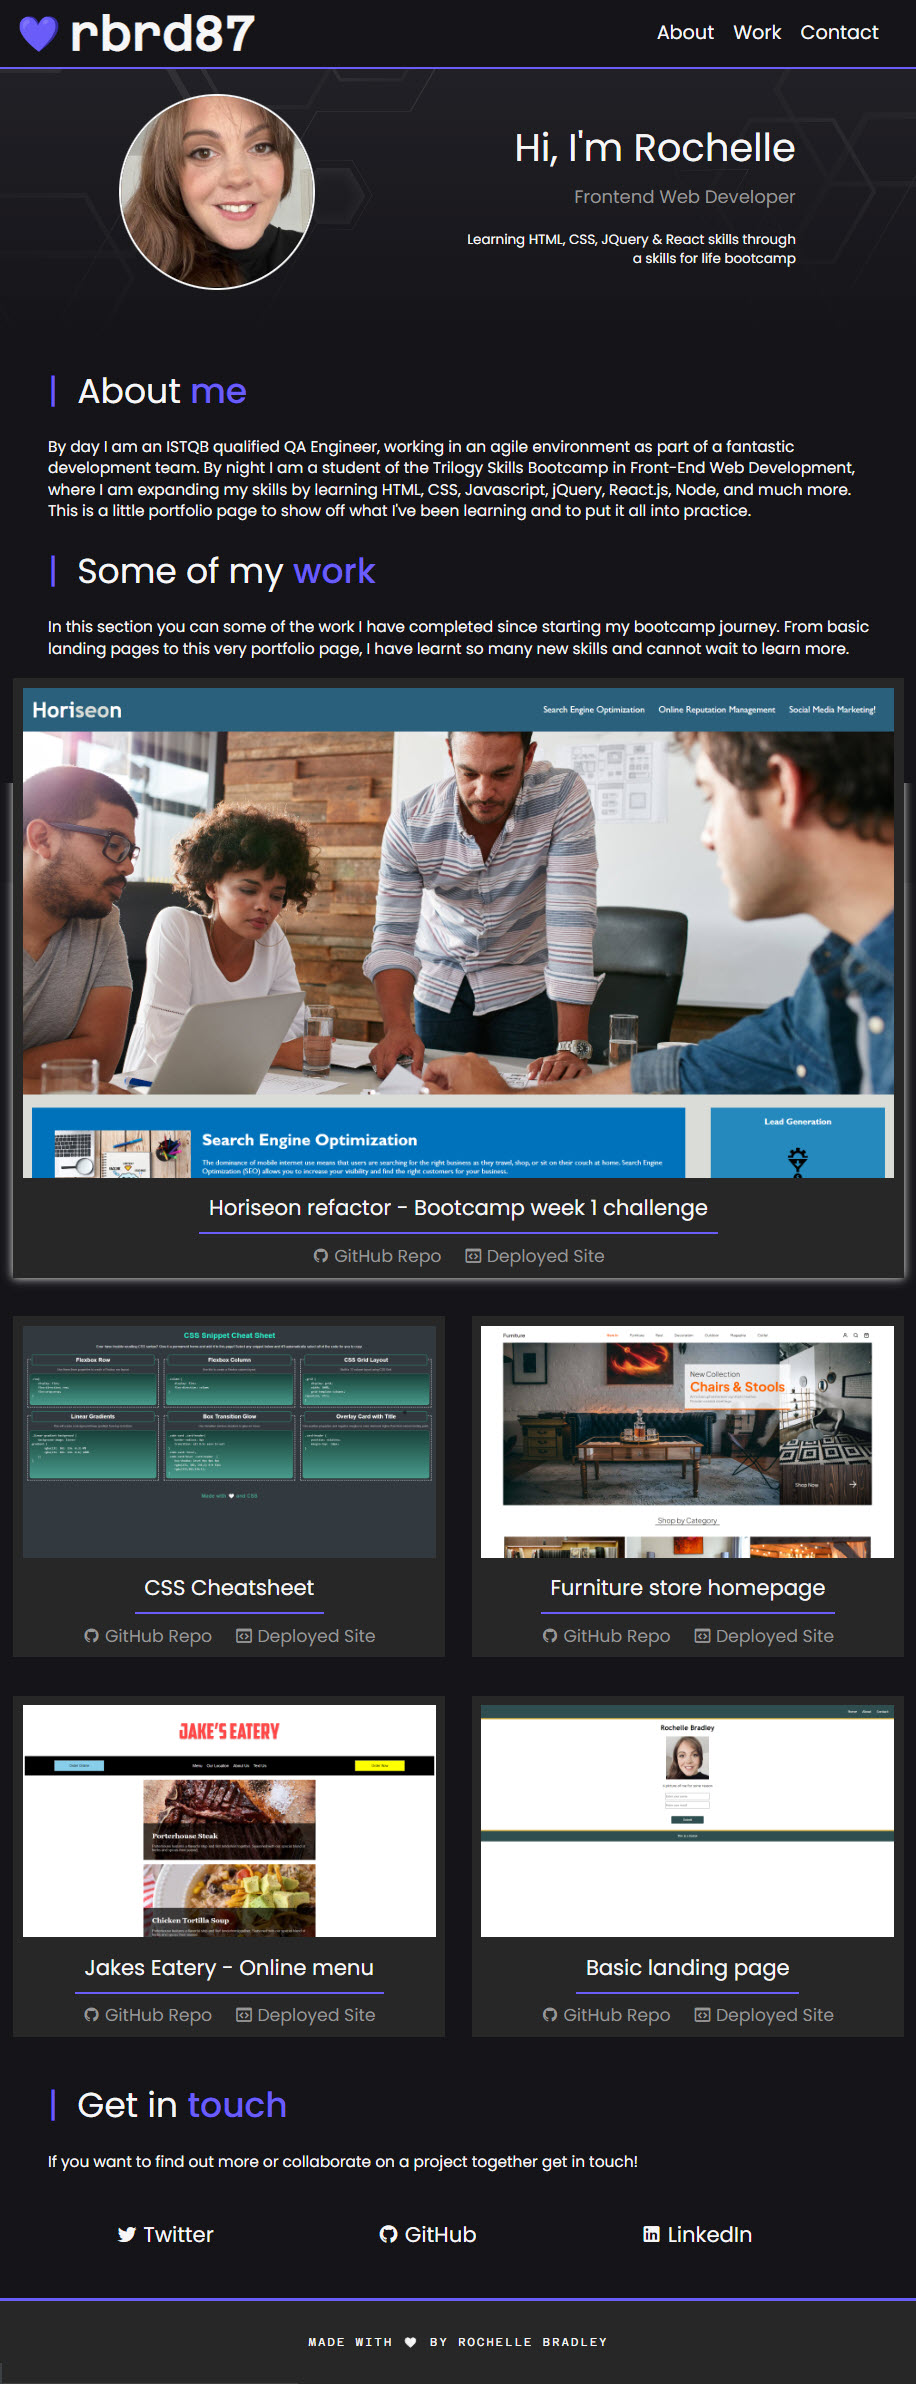
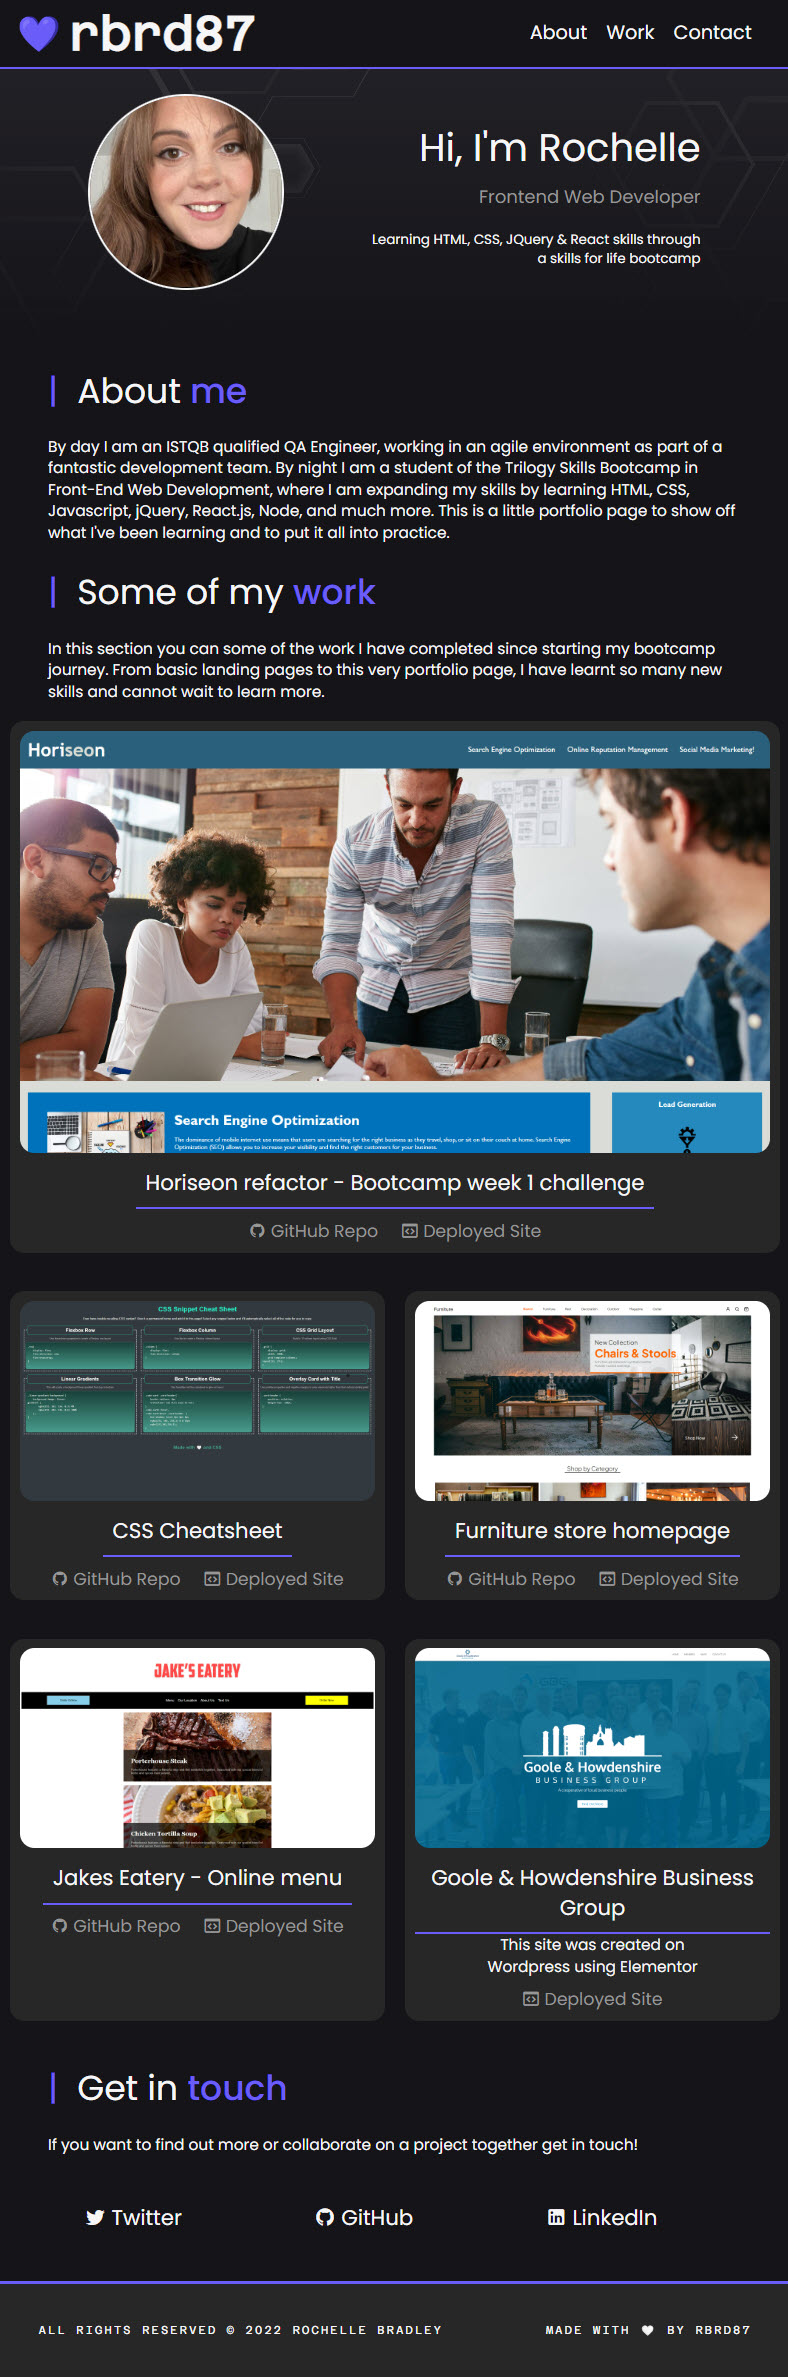
Updated all images to have titles, updated one project to a previous one I'd done and updated the screenshots

diff --git a/index.html b/index.html
@@ -40,7 +40,7 @@
   <section class="hero-banner row">
     <div class="hero-img">
       <!-- ensuring all images have alt txt for accessibility -->
-      <img src="assets/images/profile-pic.jpeg" alt="picture of rochelle bradley" class="profile-pic">
+      <img src="assets/images/profile-pic.jpeg" alt="picture of rochelle bradley" title="Rochelle Bradley" class="profile-pic">
     </div>
     <div class="hero-text column">
       <h2>Hi, I'm Rochelle</h2>
@@ -95,7 +95,7 @@
           </div>
         </section>
         <section class="card column">
-          <a href="https://rbrd87.github.io/mini-project-css-cheat-sheet/" target="_blank">
+          <a href="https://rbrd87.github.io/mini-project-css-cheat-sheet/" target="_blank" title="CSS Cheatsheet">
             <img src="assets/images/cheatsheet.jpg" alt="css cheatsheet screenshot">
           </a>
           <h4 class="card-header">CSS Cheatsheet</h4>
@@ -109,7 +109,7 @@
           </div>
         </section>
         <section class="card column">
-          <a href="https://rbrd87.github.io/css-grids-activity/" target="_blank">
+          <a href="https://rbrd87.github.io/css-grids-activity/" target="_blank" title="Bootcamp CSS Grid Activity">
             <img src="assets/images/css-grid.jpg" alt="furniture website screenshot">
           </a>
           <h4 class="card-header">Furniture store homepage</h4>
@@ -123,7 +123,7 @@
           </div>
         </section>
         <section class="card column">
-          <a href="https://rbrd87.github.io/jakes-eatery/" target="_blank">
+          <a href="https://rbrd87.github.io/jakes-eatery/" target="_blank" title="Jakes Eatery">
             <img src="assets/images/jakes-eatery.jpg" alt="jakes eatery website screenshot">
           </a>
           <h4 class="card-header">Jakes Eatery - Online menu</h4>
@@ -137,15 +137,13 @@
           </div>
         </section>
         <section class="card column">
-          <a href="https://rbrd87.github.io/landing-page/" target="_blank">
-            <img src="assets/images/landing-page.jpg" alt="landing page screenshot">
+          <a href="https://www.goolebusinessgroup.co.uk/" target="_blank" title="Goole & Howdenshire Business Group">
+            <img src="assets/images/goole-howdenshire-website.jpg" alt="goole & howdenshire bg screenshot">
           </a>
-          <h4 class="card-header">Basic landing page</h4>
+          <h4 class="card-header">Goole & Howdenshire Business Group</h4>
           <div class="github-links">
-            <a href="https://github.com/rbrd87/landing-page" target="_blank" class="link-details">
-              <i class="mdi mdi-github"></i> GitHub Repo
-            </a>
-            <a href="https://rbrd87.github.io/landing-page/" target="_blank" class="link-details">
+            <p>This site was created on Wordpress using Elementor</p>
+            <a href="https://www.goolebusinessgroup.co.uk/" target="_blank" class="link-details">
               <i class="mdi mdi-application-brackets-outline"></i> Deployed Site
             </a>
           </div>
